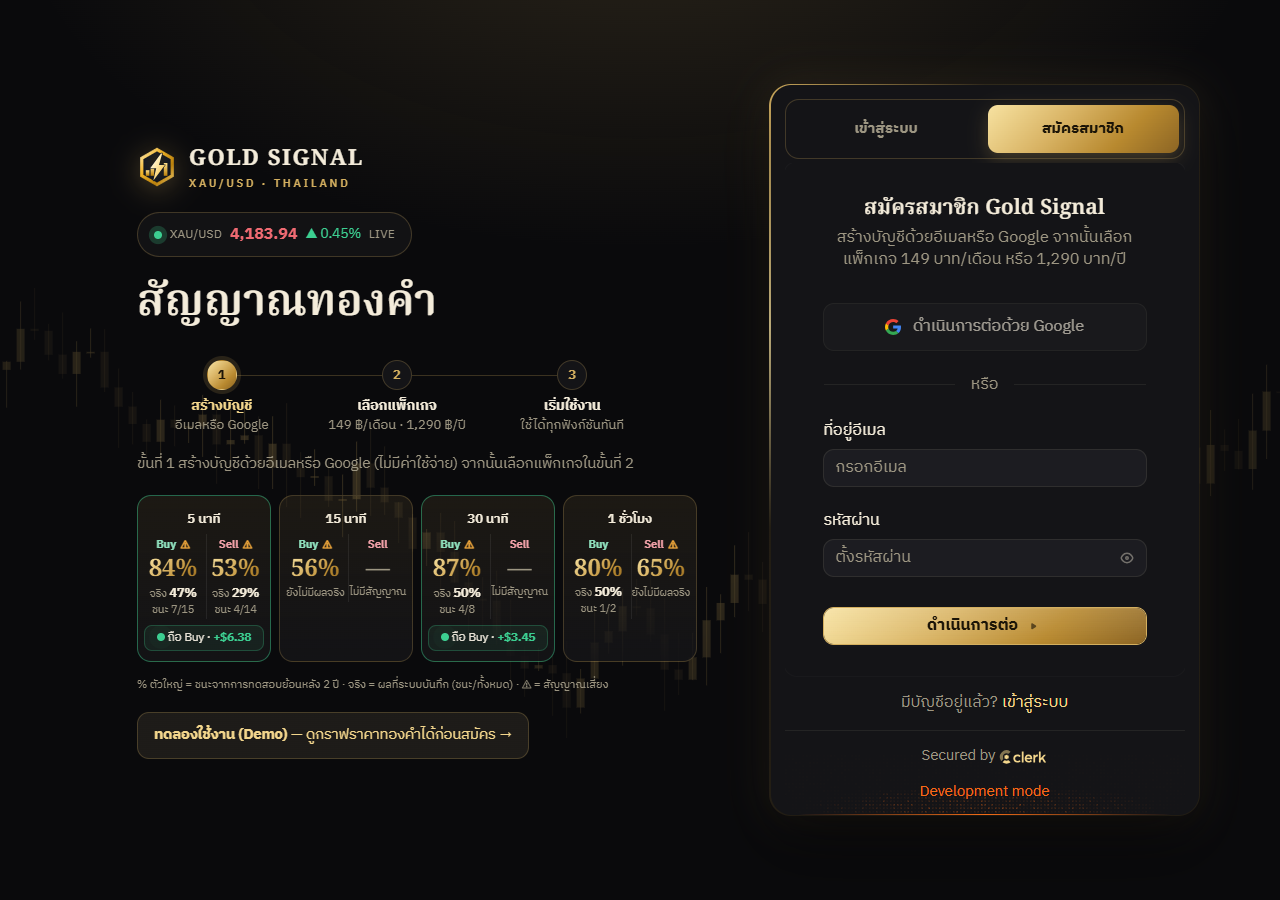
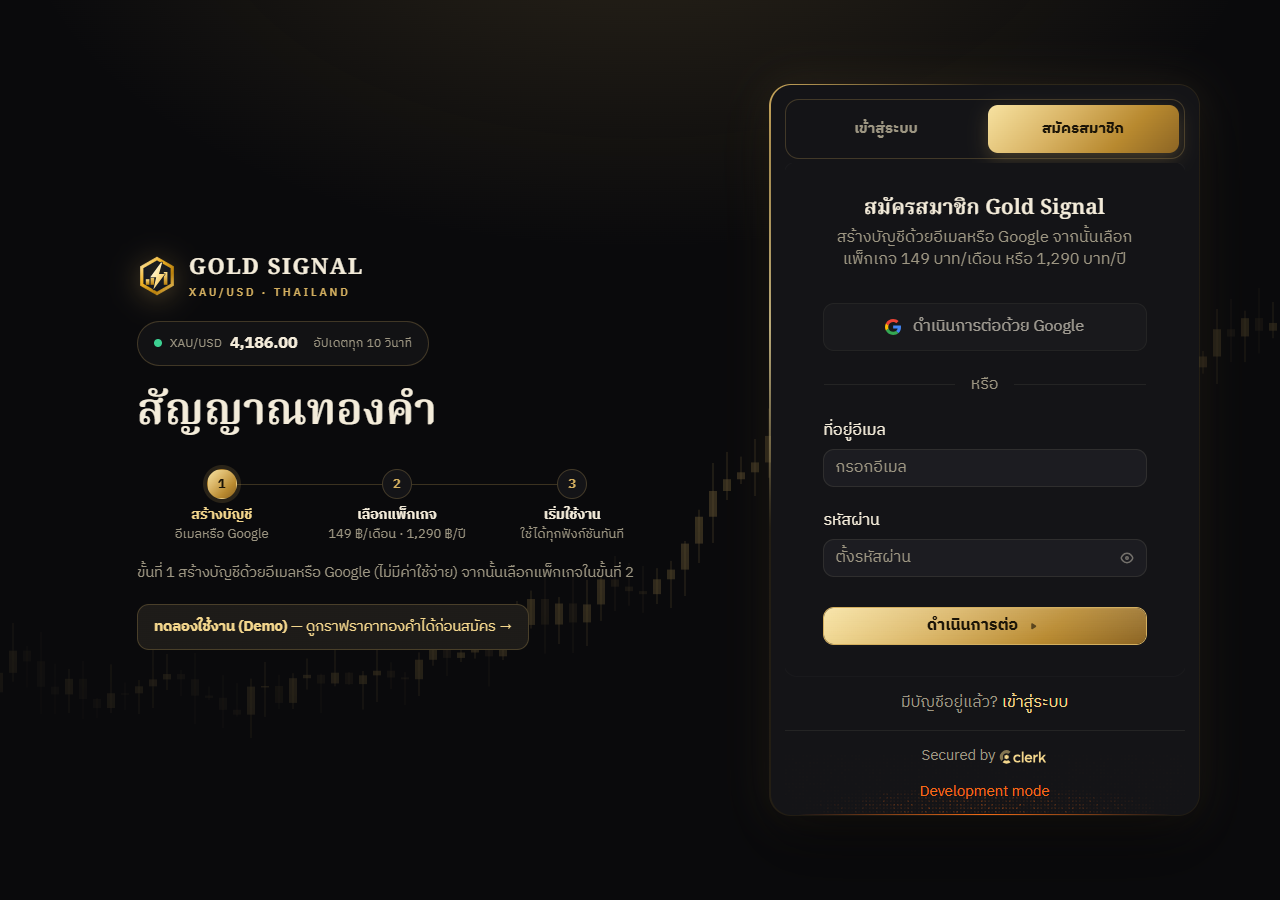
Docs: sign-up page without timeframe tiles

diff --git a/Skill.md b/Skill.md
@@ -316,6 +316,10 @@ gh workflow run weekly-summary.yml -R tanakrthum254614-max/gold-signal -f send=t
 
 > จัดเรียงใหม่ 14 ต.ค. 2569: เนื้อหาเดิมครบทุกหัวข้อ แค่เรียงตามวันที่ (ใหม่ → เก่า) · งานใหม่ให้เพิ่มหัวข้อไว้บนสุดของส่วนนี้
 
+## 19 ต.ค. 2569 — ✂ หน้าสมัคร: เอาช่องผลงาน 4 กรอบออก
+- ผู้ใช้ (ภาพช่อง 5m/15m/30m/1h): "เอาออกไปเลย ไม่เอาแล้ว" → login.html ลบ `<section class="rec">` (#tiles + .tcap), CSS `.rec*` ทั้งหมด, JS loadStats / renderRecent / renderHolds / REC / TILE_TF / money (ไม่ fetch `/api/market?blog=1&stats=1` ทุก 30 วิแล้ว) · `lib/blog.mjs` tiles/openTiles ยังอยู่ (ไม่มีหน้าไหนใช้แล้ว — welcome ใช้ tfs/recent/others/all) · **อย่าใส่ช่องผลงานกลับมาที่หน้าสมัครถ้าผู้ใช้ไม่สั่ง**
+- ทดสอบ gold-signal-tools/loginshot.cjs (ใหม่: คอม + มือถือ ไม่มี error) · commit 7c8e876
+
 ## 19 ต.ค. 2569 — 📥 จุดเข้าแม่นขึ้น: รอราคาย่อแล้วค่อยเข้า (Buy 5m · 30m · 1h)
 - ผู้ใช้: "ขอแม่นยำจุดในการเข้า" → วิจัย limit entry (newidea.js `LIMIT=1 THROUGH=0.3`, รายงาน research/indicators/report-2026-10-19-limit*.txt) → เลือก **"ทั้ง 3 กรอบ Buy"**
 - ผลทดสอบ 2 ปี (ต้องผ่านราคา $0.3 ถึงนับว่าได้เข้า): 1h ย่อ $3/6 ชม. 77% +$522 → **80% +$775** (ทุกช่วงกำไร ล่าสุด +$105) · 30m ย่อ $5/3 ชม. 81% +$355 → **87% +$833** (ล่าสุด +$1) · 5m ย่อ $5/1 ชม. 75% +$195 → **84% +$1,750** (ล่าสุดยัง −$75 → ยังเสี่ยง) · ไม้น้อยลง 10–20%

diff --git a/README.md b/README.md
@@ -32,7 +32,7 @@
 <td><img src="docs/img/pricing.png" alt="Pricing"><br><sub><b>แพ็กเกจสมาชิก</b> — ชำระผ่าน Stripe (บัตร / PromptPay)</sub></td>
 </tr>
 <tr>
-<td><img src="docs/img/login.png" alt="Sign up"><br><sub><b>การเข้าสู่ระบบและสมัครสมาชิก</b> — จัดวางสองส่วน: ข้อมูลและผลการดำเนินงานด้านซ้าย แบบฟอร์มด้านขวา พร้อมราคาทองคำแบบเรียลไทม์ ผลทดสอบย้อนหลังและผลจริงของแต่ละกรอบเวลา ขั้นตอน 3 ขั้น และคำถามที่พบบ่อย</sub></td>
+<td><img src="docs/img/login.png" alt="Sign up"><br><sub><b>การเข้าสู่ระบบและสมัครสมาชิก</b> — จัดวางสองส่วน: ข้อมูลด้านซ้าย แบบฟอร์มด้านขวา พร้อมราคาทองคำแบบเรียลไทม์ ขั้นตอน 3 ขั้น และคำถามที่พบบ่อย</sub></td>
 <td><img src="docs/img/marketing.png" alt="Back office"><br><sub><b>ระบบหลังบ้าน</b> — ผู้ช่วยร่างประกาศการตลาดจากข้อมูลจริง</sub></td>
 </tr>
 </table>
